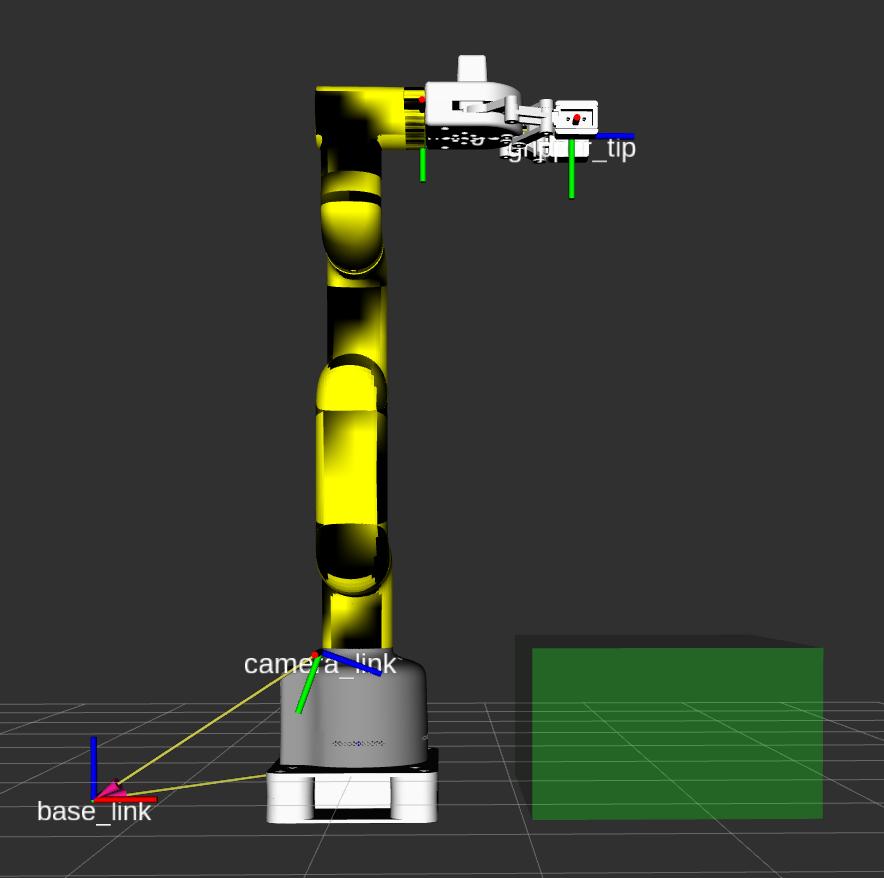
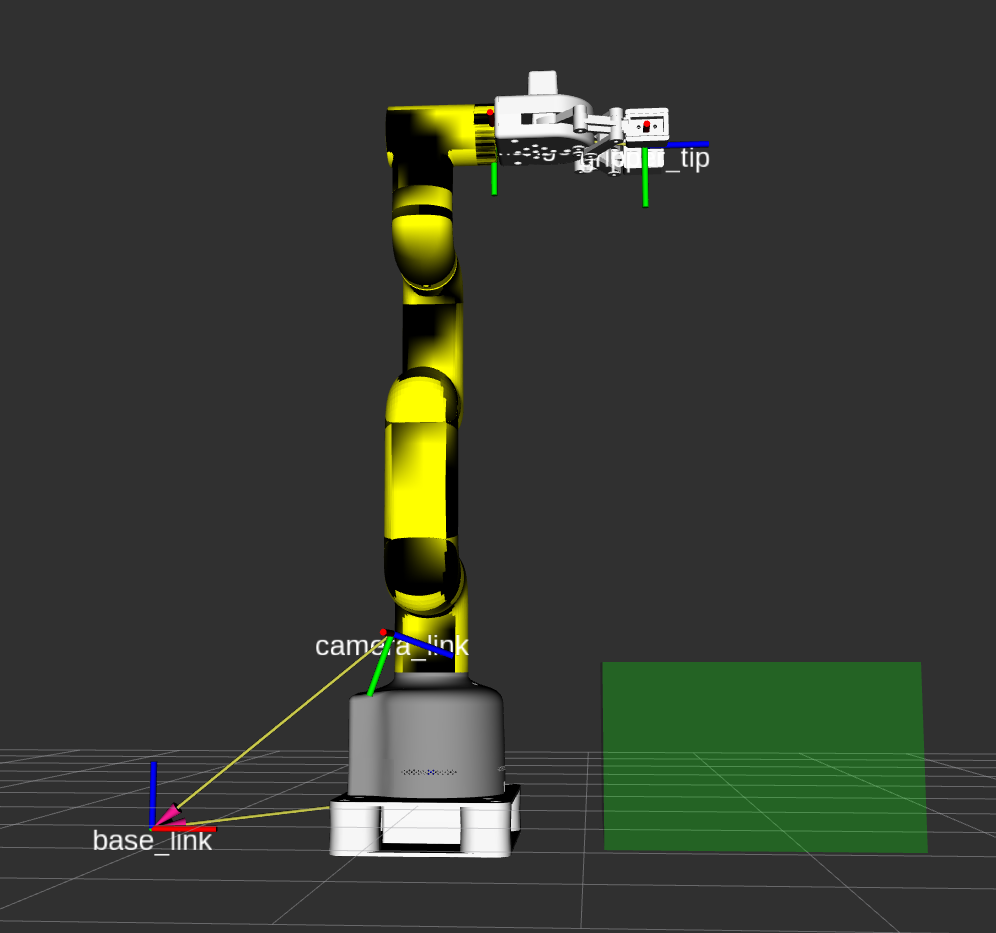
Update launch parameters and coordinate limits; add clamping logic to prevent collisions

Changed region(s): [[0.0, 0.0615, 1.0, 0.9533], [0.0, 0.9841, 0.5192, 1.0], [0.6109, 0.9841, 0.9468, 1.0]]

diff --git a/Manipulator/src/my_cobot_control/launch/mycobot_with_tf2.launch.py b/Manipulator/src/my_cobot_control/launch/mycobot_with_tf2.launch.py
@@ -55,7 +55,8 @@ def generate_launch_description():
         default_value='false',  # Default to false for real hardware
         description='Mock mode: true=simulation/dev (no hardware), false=real hardware'
     )
-
+    
+    # base_link -> g_base (arm base) transform parameters (default values based on design)
     base_x_arg = DeclareLaunchArgument(
         # Calculated value: 0.16426 m (164.26mm)
         'base_x', default_value='0.16426',
@@ -77,18 +78,19 @@ def generate_launch_description():
     base_yaw_arg = DeclareLaunchArgument(
         'base_yaw', default_value='0.0',
         description='Base-to-arm yaw for base_link->g_base (rad)')
-
+    
+    # base_link -> camera_link transform parameters (default values based on design and measurements)
     base_to_camera_x_arg = DeclareLaunchArgument(
         # Calculated value: 0.14715 m (147.15mm)
-        'base_to_camera_x', default_value='0.14715',
+        'base_to_camera_x', default_value='0.17000',
         description='Base-to-camera X offset for base_link->camera_link (m)')
     base_to_camera_y_arg = DeclareLaunchArgument(
-        # Calculated value: -0.0391 m (-39.1mm)   
-        'base_to_camera_y', default_value='-0.0391',
+        # Calculated value: -0.0041 m (-4.1mm)   
+        'base_to_camera_y', default_value='-0.0041',
         description='Base-to-camera Y offset for base_link->camera_link (m)')
     base_to_camera_z_arg = DeclareLaunchArgument(
-        # Calculated value: 0.09595 m (95.95mm)
-        'base_to_camera_z', default_value='0.09595',
+        # Calculated value: 0.11795 m (117.95mm)
+        'base_to_camera_z', default_value='0.11795',
         description='Base-to-camera Z offset for base_link->camera_link (m)')
     base_to_camera_roll_arg = DeclareLaunchArgument(
         'base_to_camera_roll', default_value='-1.9199', # 20 + 90 degrees in radians

diff --git a/Manipulator/src/my_cobot_control/my_cobot_control/mycobot_controller_tf2.py b/Manipulator/src/my_cobot_control/my_cobot_control/mycobot_controller_tf2.py
@@ -134,8 +134,8 @@ class MyCobotControllerTF2(Node):
     
     #  Limitation of point in meter
     COORD_LIMITS = {
-        'x': (0.120, 0.290),
-        'y': (-0.160, 0.055),
+        'x': (0.120, 0.285),
+        'y': (-0.160, 0.058),
         'z': (0.080, 0.180),
     }
 
@@ -488,9 +488,35 @@ class MyCobotControllerTF2(Node):
             return
 
         x_base, y_base, z_base = result
-        
-        x_base += 0.02  # Add small X offset to prevent collision
 
+        x_base += 0.02  # Add small 2cm offset to prevent collision
+        
+        # Polar Clamping
+        x_min, x_max = self.COORD_LIMITS['x']
+        y_min, y_max = self.COORD_LIMITS['y']
+
+        current_radius = math.sqrt(x_base**2 + y_base**2)
+
+        if current_radius > x_max:
+            scale = x_max / current_radius
+            original_x, original_y = x_base, y_base
+            x_base = x_base * scale
+            y_base = y_base * scale
+            self.get_logger().warn(
+                f'  [CLAMP] Reach > {x_max}m! Scaled ({original_x:.4f}, {original_y:.4f}) -> ({x_base:.4f}, {y_base:.4f})')
+        elif current_radius < x_min:
+            scale = x_min / current_radius
+            x_base = x_base * scale
+            y_base = y_base * scale
+            self.get_logger().warn(f'  [CLAMP] Too close! Forced radius to {x_min}m')
+
+        if y_base > y_max:
+            self.get_logger().warn(f'  [CLAMP] Y={y_base:.4f} > {y_max}, forcing to {y_max}')
+            y_base = y_max
+        elif y_base < y_min:
+            self.get_logger().warn(f'  [CLAMP] Y={y_base:.4f} < {y_min}, forcing to {y_min}')
+            y_base = y_min
+        
         target = Point()
         target.x = x_base
         target.y = y_base
